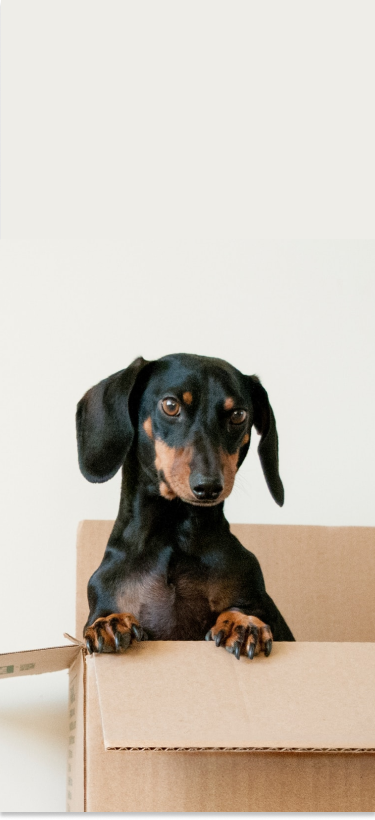
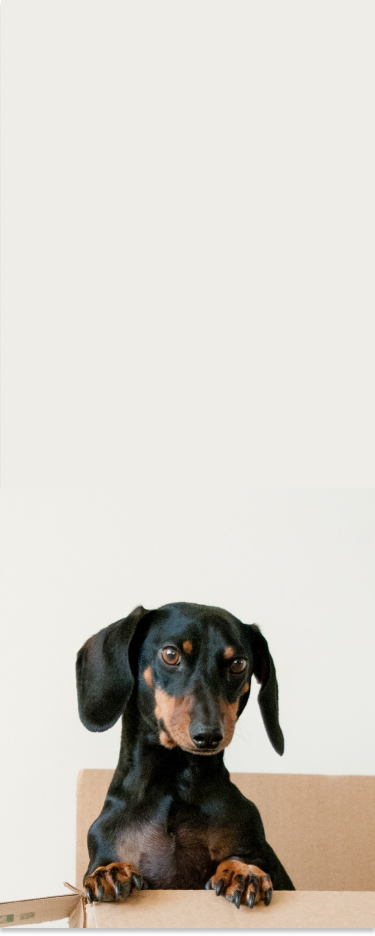
new images and nav fix

diff --git a/Kollektiva/public/js/app.js b/Kollektiva/public/js/app.js
@@ -19523,19 +19523,6 @@ __webpack_require__.r(__webpack_exports__);
 
 /***/ }),
 
-/***/ "./resources/sass/done.scss":
-/*!**********************************!*\
-  !*** ./resources/sass/done.scss ***!
-  \**********************************/
-/***/ ((__unused_webpack_module, __webpack_exports__, __webpack_require__) => {
-
-"use strict";
-__webpack_require__.r(__webpack_exports__);
-// extracted by mini-css-extract-plugin
-
-
-/***/ }),
-
 /***/ "./node_modules/process/browser.js":
 /*!*****************************************!*\
   !*** ./node_modules/process/browser.js ***!
@@ -19843,8 +19830,7 @@ process.umask = function() { return 0; };
 /******/ 			"/js/app": 0,
 /******/ 			"css/account": 0,
 /******/ 			"css/start": 0,
-/******/ 			"css/app": 0,
-/******/ 			"css/done": 0
+/******/ 			"css/app": 0
 /******/ 		};
 /******/ 		
 /******/ 		// no chunk on demand loading
@@ -19894,11 +19880,10 @@ process.umask = function() { return 0; };
 /******/ 	// startup
 /******/ 	// Load entry module and return exports
 /******/ 	// This entry module depends on other loaded chunks and execution need to be delayed
-/******/ 	__webpack_require__.O(undefined, ["css/account","css/start","css/app","css/done"], () => (__webpack_require__("./resources/js/app.js")))
-/******/ 	__webpack_require__.O(undefined, ["css/account","css/start","css/app","css/done"], () => (__webpack_require__("./resources/sass/app.scss")))
-/******/ 	__webpack_require__.O(undefined, ["css/account","css/start","css/app","css/done"], () => (__webpack_require__("./resources/sass/start.scss")))
-/******/ 	__webpack_require__.O(undefined, ["css/account","css/start","css/app","css/done"], () => (__webpack_require__("./resources/sass/account.scss")))
-/******/ 	var __webpack_exports__ = __webpack_require__.O(undefined, ["css/account","css/start","css/app","css/done"], () => (__webpack_require__("./resources/sass/done.scss")))
+/******/ 	__webpack_require__.O(undefined, ["css/account","css/start","css/app"], () => (__webpack_require__("./resources/js/app.js")))
+/******/ 	__webpack_require__.O(undefined, ["css/account","css/start","css/app"], () => (__webpack_require__("./resources/sass/app.scss")))
+/******/ 	__webpack_require__.O(undefined, ["css/account","css/start","css/app"], () => (__webpack_require__("./resources/sass/start.scss")))
+/******/ 	var __webpack_exports__ = __webpack_require__.O(undefined, ["css/account","css/start","css/app"], () => (__webpack_require__("./resources/sass/account.scss")))
 /******/ 	__webpack_exports__ = __webpack_require__.O(__webpack_exports__);
 /******/ 	
 /******/ })()

diff --git a/Kollektiva/resources/sass/app.scss b/Kollektiva/resources/sass/app.scss
@@ -8,6 +8,8 @@ $light-purple: #c8c7ff;
 $primary-font: "Poppins";
 $button-font-size: 1.2rem;
 $p-font-size: 1.2rem;
+$white: #fdfdfd;
+$black: #2f2f2f;
 
 * {
     box-sizing: border-box;
@@ -23,19 +25,22 @@ body {
     width: 100%;
     height: 4rem;
     // height: 100vh;
-    background-color: $light-purple;
+    background-color: $white;
     display: flex;
+    box-shadow: 0px 2px 6px rgba(0, 0, 0, 0.2);
 }
 
 .navbar {
     display: flex;
     justify-content: center;
     align-items: center;
-    width: 300px;
+    flex-wrap: wrap;
+    flex-direction: column;
+    width: 400px;
     height: 100%;
-    background-color: $light-purple;
+    background-color: $white;
     top: 0;
-    right: -300px;
+    right: -400px;
     position: fixed;
     z-index: 10;
 
@@ -46,6 +51,15 @@ body {
             display: block;
         }
     }
+
+    // button {
+    //     display: none;
+
+    //     @media (min-width: 600px) {
+    //         display: block;
+    //         color: black;
+    //     }
+    // }
 }
 
 .close {
@@ -89,7 +103,7 @@ body {
 .hamburger-line {
     width: 100%;
     height: 3px;
-    background-color: red;
+    background-color: $primary-purple;
 
     @media (min-width: 600px) {
         display: none;

diff --git a/Kollektiva/public/css/start.css b/Kollektiva/public/css/start.css
@@ -11,19 +11,22 @@ body {
 .menu {
   width: 100%;
   height: 4rem;
-  background-color: #c8c7ff;
+  background-color: #fdfdfd;
   display: flex;
+  box-shadow: 0px 2px 6px rgba(0, 0, 0, 0.2);
 }
 
 .navbar {
   display: flex;
   justify-content: center;
   align-items: center;
-  width: 300px;
+  flex-wrap: wrap;
+  flex-direction: column;
+  width: 400px;
   height: 100%;
-  background-color: #c8c7ff;
+  background-color: #fdfdfd;
   top: 0;
-  right: -300px;
+  right: -400px;
   position: fixed;
   z-index: 10;
 }
@@ -80,7 +83,7 @@ body {
 .hamburger-line {
   width: 100%;
   height: 3px;
-  background-color: red;
+  background-color: #4e0ea1;
 }
 @media (min-width: 600px) {
   .hamburger-line {
@@ -107,7 +110,7 @@ h1 {
 
 .hero-section {
   background-image: url("/images/hero-mobile.png");
-  height: 50rem;
+  height: 60rem;
   width: 100%;
   background-repeat: no-repeat;
   position: relative;

diff --git a/Kollektiva/public/css/account.css b/Kollektiva/public/css/account.css
@@ -11,19 +11,22 @@ body {
 .menu {
   width: 100%;
   height: 4rem;
-  background-color: #c8c7ff;
+  background-color: #fdfdfd;
   display: flex;
+  box-shadow: 0px 2px 6px rgba(0, 0, 0, 0.2);
 }
 
 .navbar {
   display: flex;
   justify-content: center;
   align-items: center;
-  width: 300px;
+  flex-wrap: wrap;
+  flex-direction: column;
+  width: 400px;
   height: 100%;
-  background-color: #c8c7ff;
+  background-color: #fdfdfd;
   top: 0;
-  right: -300px;
+  right: -400px;
   position: fixed;
   z-index: 10;
 }
@@ -80,7 +83,7 @@ body {
 .hamburger-line {
   width: 100%;
   height: 3px;
-  background-color: red;
+  background-color: #4e0ea1;
 }
 @media (min-width: 600px) {
   .hamburger-line {

diff --git a/Kollektiva/public/css/app.css b/Kollektiva/public/css/app.css
@@ -11,19 +11,22 @@ body {
 .menu {
   width: 100%;
   height: 4rem;
-  background-color: #c8c7ff;
+  background-color: #fdfdfd;
   display: flex;
+  box-shadow: 0px 2px 6px rgba(0, 0, 0, 0.2);
 }
 
 .navbar {
   display: flex;
   justify-content: center;
   align-items: center;
-  width: 300px;
+  flex-wrap: wrap;
+  flex-direction: column;
+  width: 400px;
   height: 100%;
-  background-color: #c8c7ff;
+  background-color: #fdfdfd;
   top: 0;
-  right: -300px;
+  right: -400px;
   position: fixed;
   z-index: 10;
 }
@@ -80,7 +83,7 @@ body {
 .hamburger-line {
   width: 100%;
   height: 3px;
-  background-color: red;
+  background-color: #4e0ea1;
 }
 @media (min-width: 600px) {
   .hamburger-line {

diff --git a/Kollektiva/resources/sass/start.scss b/Kollektiva/resources/sass/start.scss
@@ -7,7 +7,7 @@ h1 {
 
 .hero-section {
     background-image: url("/images/hero-mobile.png");
-    height: 50rem;
+    height: 60rem;
     width: 100%;
     background-repeat: no-repeat;
     position: relative;

diff --git a/Kollektiva/resources/views/boilerplate/header.blade.php b/Kollektiva/resources/views/boilerplate/header.blade.php
@@ -29,11 +29,15 @@
                 <div class="hamburger-line .hamburger-line-2"></div>
                 <div class="hamburger-line .hamburger-line-3"></div>
             </div>
+            <button>Registrera dig nu</button>
             <ul class="nav-list">
-                <li class="nav-item">MENY 1</li>
-                <li class="nav-item">MENY 2</li>
-                <li class="nav-item">MENY 3</li>
+                <li class="nav-item">Sök bostad</li>
+                <li class="nav-item">Bli hyresvärd</li>
+                <li class="nav-item">Hjälp</li>
             </ul>
+            <button>Logga in</button>
+            <p>Allmänna villkor</p>
+            <p>Cookiepolicy</p>
         </nav>
     </div>
     <script src="/js/app.js"></script>
